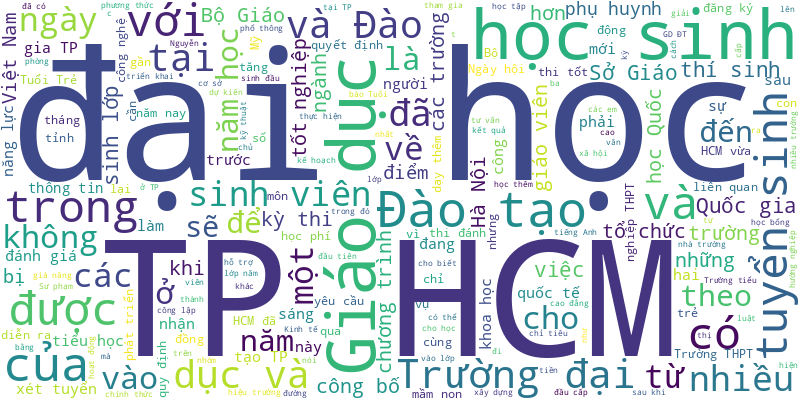
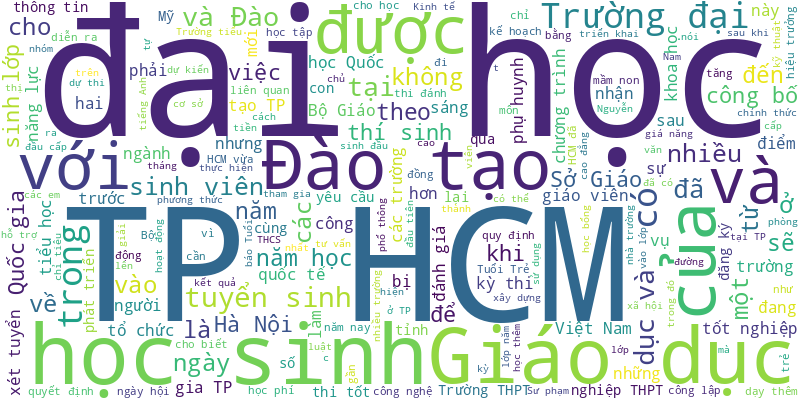
🍀 = 60%

diff --git a/README.md b/README.md
@@ -1,6 +1,24 @@
 # Tuoi Tre RSS 
 
 ## Giáo dục 
+- Bộ Giáo dục và Đào tạo đã có hướng dẫn về quy đổi điểm xét tuyển đại học nhưng nhiều trường đại học than khó thực hiện.
+- Ngày 29-5, Đại học Quốc gia Hà Nội công bố phổ điểm thi đánh giá năng lực năm 2025 sau 6 đợt thi, với gần 90.000 thí sinh dự thi.
+- Hiệu trưởng mới Trường tiểu học Vĩnh Nguyên 1, TP Nha Trang thông báo sẽ 'xáo lớp' với học sinh ăn hay không ăn bán trú vào năm sau. Phụ huynh thắc mắc đó có phải 'tạo áp lực' để học sinh ăn bán trú không?
+- Tóm tắt lý thuyết, tạo đề thi thử, phân tích bài làm... AI giúp tiết kiệm thời gian, tập trung kiến thức, biến áp lực thi cử thành cơ hội bứt phá.
+- Sáng 29-5, Viện Nghiên cứu kinh tế - xã hội, Trường đại học Sài Gòn (RISE) và Văn phòng đại diện Konrad - Adenauer - Stiftung tại Việt Nam (KAS) ký thỏa thuận hợp tác.
+- Không chỉ sinh viên quốc tế, một số sinh viên trong nước cũng đang cân nhắc chuyển khỏi Harvard vì không muốn học ở môi trường thiếu sinh viên quốc tế.
+- Ngày 29-5, Sở Giáo dục và Đào tạo TP.HCM tổ chức tập huấn công tác coi thi tuyển sinh lớp 10 năm học 2025-2026.
+- Khi du học Mỹ đang là tâm điểm với những quy định 'siết' visa, cùng nhìn lại số lượng du học sinh Việt Nam tại Mỹ trong thời gian qua.
+- Chiều 29-5, Phòng Giáo dục và Đào tạo TP Thủ Đức đã công bố điểm thi và điểm chuẩn lớp 6 vào 3 trường THCS: Trần Quốc Toản 1, Hoa Lư, Bình Thọ.
+- Theo Hiệp hội Các trường đại học, cao đẳng Việt Nam, việc điều chỉnh hệ thống giáo dục quốc dân để đáp ứng sự phát triển kinh tế - xã hội của đất nước ta trong kỷ nguyên mới.
+- Trường đại học Kinh tế - Tài chính TP.HCM (UEF) phát hiện văn bản giả mạo về chương trình trao đổi với Đại học Old Dominion (Mỹ) đang lan truyền trong cộng đồng sinh viên.
+- Hơn 1 triệu học sinh đăng ký thi tốt nghiệp THPT năm nay. Rất nhiều bạn vẫn đang đối mặt với câu hỏi: ‘Liệu mình đang đứng ở vị trí nào trong cuộc đua, có đủ sức thi vào ngành và trường yêu thích?’.
+- Trường đại học Ngoại ngữ - Tin học TP.HCM (HUFLIT) sẽ đến với khán giả chương trình Khám phá trường học của báo Tuổi Trẻ lúc 19h tối nay.
+- Nhiều chuyên gia giáo dục góp ý cần làm rõ giá trị của bằng 'trung học nghề', như liệu có tương đương với bằng tốt nghiệp THPT không, có được liên thông đại học không?
+- Được Nhà nước hỗ trợ nhưng học sinh bán trú chỉ ăn hết hơn một nửa số gạo, thầy hiệu trưởng ở Lai Châu quyết định chia đều, mỗi em được 60kg gạo mang về nghỉ hè.
+- Trước khi được bổ nhiệm chức vụ giám đốc Đại học Kinh tế quốc dân, PGS.TS Bùi Huy Nhượng giữ chức vụ phó giám đốc đại học.
+- Trong bối cảnh giáo dục đại học đang thay đổi nhanh chóng, câu hỏi liệu có nên tiếp tục duy trì mô hình đại học quốc gia đang được nhắc lại với nhiều ý kiến trái chiều.
+- Summer Camp 2025 - chương trình quốc tế mùa hè dành cho học sinh Asian School hứa hẹn mang đến một mùa hè sôi động với trải nghiệm học tập theo dự án sáng tạo, hoạt động ngoại khóa đa dạng và hành trình khám phá đầy cảm hứng.
 - Chính quyền ông Trump vừa thông báo sẽ tích cực thu hồi thị thực (visa) của sinh viên Trung Quốc, một trong những nguồn thu lớn nhất của các trường đại học Mỹ.
 - B.G. (32 tuổi, TP.HCM) chuẩn bị đi học chương trình MBA tại Arizona State University, đang cân nhắc việc chuyển hướng sang Hà Lan nếu không xin được visa du học Mỹ.
 - 11 viện, trường đại học, trường cao đẳng được giao nhiệm vụ đào tạo nguồn nhân lực phục vụ phát triển điện hạt nhân đến năm 2035 tại Việt Nam.
@@ -985,27 +1003,59 @@ Trường đại học Văn Lang được QS xếp hạng top 51-100 thế giớ
 - Tại Trường đại học Công nghệ TP.HCM (HUTECH), sinh viên thế hệ mới dường như chưa lúc nào ngừng bứt phá, thử sức.
 - Năm nay, cả bốn trường quân đội, gồm Học viện Kỹ thuật quân sự, Trường Sĩ quan Lục quân 2, Trường Sĩ quan Công binh và Trường Sĩ quan Thông tin đều giảm chỉ tiêu hệ quân sự so với năm ngoái.
 - UBND TP.HCM vừa có quyết định tổ chức lại phòng giáo dục và đào tạo thuộc UBND các quận trên địa bàn thành phố.
-- Hiệu trưởng trường THPT tại huyện Ea H'leo (tỉnh Đắk Lắk) có giải trình về việc để diễn ra việc cúng giải hạn ngay trong trường.
-- Theo PGS.TS.BS Đỗ Văn Dũng - giảng viên y tế công cộng, Đại học Y Dược TP.HCM, ba nhóm chất tốt cho trí não và cần tăng cường cho học sinh chuẩn bị thi cử gồm sắt, iốt, DHA.
-- Ngày 3-3, nhiệt độ tăng cao đã khiến các trường học ở gần một nửa thủ đô Philippines phải đóng cửa, báo hiệu một mùa nắng nóng khắc nghiệt sắp bắt đầu.
-- Trước đó, liên quan đến sai phạm kỳ thi tuyển sinh vào lớp 10, giám đốc Sở Giáo dục và Đào tạo Thái Bình bị cách chức, đến nay đã 6 tháng.
-- Sáng 3-3, Sở Giáo dục và Đào tạo TP.HCM đã trao quyết định bổ nhiệm hàng loạt cán bộ chủ chốt. Bà Lâm Hồng Lãm Thúy, trưởng Phòng giáo dục tiểu học, được bổ nhiệm làm trưởng Phòng giáo dục phổ thông.
-- Trên mạng xã hội xuất hiện bài viết nêu ban đại diện cha mẹ học sinh một trường tiểu học ở Khánh Hòa kêu gọi đóng góp tùy tâm để đổ bê tông trước cổng trường học, nhưng "chốt" mỗi học sinh ít nhất 100.000 đồng.
-- Chỉ trong vòng 6 tháng, Trường đại học Thủ Dầu Một có hai lần thay đổi chủ tịch hội đồng trường.
-- Theo quyết định quy hoạch mạng lưới cơ sở giáo dục đại học, nhiều trường đại học sẽ bị sáp nhập vào trường khác.
-- Bà Nguyễn Thu Thủy - vụ trưởng Vụ Giáo dục đại học (Bộ GD-ĐT) - khẳng định như vậy về quy chế tuyển sinh đại học sửa đổi sẽ được ban hành trong vài ngày tới.
-- Trường THCS-THPT Trần Đại Nghĩa, TP.HCM dự kiến tăng 80 chỉ tiêu trong mùa tuyển sinh lớp 10 năm 2025.
-- Danh hiệu 'Giáo sư danh dự' Đại học Thanh Hoa dành tặng những cá nhân đặc biệt xuất sắc, có nhiều đóng góp trong giáo dục, đào tạo, khoa học, có uy tín và có đóng góp cho tình hữu nghị, sự phát triển kinh tế - xã hội nói chung.
-- Học tập suốt đời để dám nghĩ, dám nói, dám làm, dám chịu trách nhiệm, dám hy sinh vì lợi ích chung, để trở thành người có ích cho xã hội.
-- Chính sách miễn học phí cho học sinh cả nước cần được mở rộng ra các trường tư và không còn lạm thu quỹ trường quỹ lớp.
-- Khẳng định trên của đại diện Bộ GD-ĐT được đưa ra tại Ngày hội tư vấn tuyển sinh - hướng nghiệp ở TP.HCM do báo Tuổi Trẻ tổ chức.
-- Nhiều học sinh đã chia sẻ băn khoăn, lo lắng liên quan ngành học và tuyển sinh năm nay, tại Ngày hội tư vấn tuyển sinh - hướng nghiệp đang diễn ra ở Hải Phòng.
-- Thí sinh thắc mắc cận thị hơn 3 độ có xét tuyển vào Học viện Kỹ thuật quân sự được không?
-- Thông tin tuyển sinh sai có thể khiến bạn trẻ lệch hướng. Vì vậy đừng ngần ngại đặt câu hỏi, đừng ngại chia sẻ những băn khoăn, ước mơ của mình với các thầy cô và chuyên gia.
-- Nhiều học sinh, phụ huynh chia sẻ đã chốt được ngành học sau khi đến tìm hiểu thông tin tại Ngày hội tư vấn tuyển sinh - hướng nghiệp của báo Tuổi Trẻ.
 ![Edu](Edu.png)
 ## Thời Sự 
-- Phán quyết của Tòa án Thương mại quốc tế Mỹ đình chỉ hầu hết các khoản thuế quan mà ông Trump áp đặt lên các nước.
+- Bộ Văn hóa, Thể thao và Du lịch chấp thuận cho UBND TP Huế lập hội đồng khoa học gồm các chuyên gia của Cục Di sản văn hóa, nhà nghiên cứu… để tìm cách sửa ngai vàng triều Nguyễn bị bẻ gãy.
+- Tại dự thảo nghị định mới về tinh giản biên chế, Bộ Nội vụ đề xuất cán bộ, công chức, viên chức không hoàn thành nhiệm vụ 1 năm thuộc diện bị tinh giản.
+- Theo thống kê mới nhất, có hơn 1.300 cán bộ ở An Giang xin nghỉ hưu hưởng chế độ 178 và nghỉ việc theo nguyện vọng cá nhân. Còn tại Kiên Giang cũng có hàng trăm cán bộ đã xin nghỉ theo chế độ 178.
+- Bí thư Đảng ủy, chủ tịch HĐND xã, phường được chọn theo thứ tự ưu tiên: ủy viên Ban Thường vụ Tỉnh ủy; ủy viên Ban Chấp hành Đảng bộ tỉnh; bí thư cấp ủy cấp huyện…
+- Tin tức đáng chú ý: Cục Quản lý dược, Bộ Y tế vừa có quyết định thu hồi 15 số tiếp nhận phiếu công bố sản phẩm mỹ phẩm của một công ty tại Hà Nội; Bảo hiểm y tế sẽ chi trả cho người bệnh tự mua thuốc, vật tư trong một số trường hợp...
+- Hôm nay 30-5, thời tiết cả nước tiếp tục duy trì đợt mưa, Bắc Bộ mưa to sáng sớm sau đó giảm dần, còn Nam Bộ mưa tập trung về chiều.
+- Dự báo đêm nay 29-5, nhiều vùng miền trên cả nước tiếp tục có mưa vừa đến mưa to, cảnh báo nguy cơ lũ quét, sạt lở đất tại 30 tỉnh thành.
+- Công an Đồng Nai phát hiện các công nhân đang sang chiết, đóng gói sản phẩm phân bón hữu cơ dạng viên nén sang bao bì khác có hình con dơi màu đỏ...
+- Thủ tướng giao nhiệm vụ cho ngành ngân hàng phải nâng cấp, phát triển hạ tầng thanh toán đảm bảo hoạt động liên tục, thông suốt, an toàn, đáp ứng tốt nhu cầu thanh toán đa dạng.
+- Thường trực Ban Bí thư Trần Cẩm Tú yêu cầu nghiêm túc nhìn nhận một số hạn chế, rút kinh nghiệm để làm tốt hơn cho sự kiện sắp tới, gần nhất là các hoạt động Lễ kỷ niệm 80 năm Quốc khánh 2-9, 'phải làm tốt hơn, hoàn chỉnh hơn, hoàn hảo hơn'.
+- Thấy lực lượng quản lý thị trường, nhiều tiểu thương tại Trung tâm thương mại Saigon Square (quận 1, TP.HCM) vội vàng đóng sạp, gây khó khăn cho công tác kiểm tra.
+- Tập đoàn Y Dược EBC từng quảng bá là nhà máy sản xuất gia công mỹ phẩm thuần chay, quy trình sản xuất đóng gói nghiêm ngặt, được kiểm tra chặt chẽ.
+- Tuyến đường nối cao tốc TP.HCM - Long Thành - Dầu Giây đoạn từ nút giao thông An Phú đến đường vành đai 2 sẽ được mở rộng lên 8 làn.
+- Công đoàn doanh nghiệp, đơn vị sự nghiệp công lập không hưởng 100% lương từ ngân sách nhà nước sẽ chưa thực hiện sắp xếp, giải thể.
+- Ủy ban Kiểm tra Trung ương kỷ luật cảnh cáo Thứ trưởng Bộ Giáo dục và Đào tạo Nguyễn Thị Kim Chi và đề nghị kỷ luật nguyên lãnh đạo Tập đoàn Công nghiệp cao su Việt Nam, tỉnh Đồng Nai, Hậu Giang.
+- Sau khi đứa con trong bụng mẹ được thông tim thành công, vợ chồng sản phụ Singapore đã viết thư cảm ơn bác sĩ: 'Trải nghiệm này sẽ mãi ở trong tim chúng tôi, không có lời nào diễn tả hết lòng biết ơn đến đội ngũ y tế tuyệt vời của Việt Nam'.
+- Theo lãnh đạo Bộ Nông nghiệp và Môi trường, năm nay lượng mưa không quá nhiều nhưng đáng quan ngại là mưa cực đoan cục bộ. Đây là điểm quan trọng cần lưu ý trong công tác chỉ đạo, điều hành để giảm thiểu tối đa thiệt hại.
+- Liên quan thông tin quảng cáo trên sản phẩm sữa lúa mạch Nestle' Milo, Sở Y tế Đồng Nai nhận định có dấu hiệu lừa dối người tiêu dùng, nên kiến nghị chuyển hồ sơ vụ việc cho cơ quan cảnh sát điều tra.
+- Mưa lớn trong nhiều ngày qua khiến một đoạn đường Hàm Minh - Thuận Quý, huyện Hàm Thuận Nam, tỉnh Bình Thuận sạt lở, tạo hàm ếch.
+- Sau khi kết thúc hoạt động của một số đơn vị công đoàn, vấn đề tài chính và tài sản phải đảm bảo đúng quy định, không gây thất thoát, lãng phí và đảm bảo chăm lo, hỗ trợ đoàn viên kịp thời, đúng mục đích.
+- Phòng an ninh mạng và phòng chống tội phạm sử dụng công nghệ cao (Công an Đà Nẵng) làm rõ nghi phạm lừa đảo bằng thủ đoạn mua bán tiền ảo với số tiền hàng chục tỉ đồng của nhiều nạn nhân trên cả nước.
+- Thành ủy Gia Nghĩa (Đắk Nông) có văn bản đề nghị chỉ tiếp nhận địa giới hành chính khi thành lập phường Bắc Gia Nghĩa mới, nhưng không tiếp nhận cán bộ, công chức, viên chức và người lao động của xã Đắk Ha (huyện Đắk G'Long) sau sáp nhập.
+- Bên cạnh chỉ đạo thực hiện cao điểm chống buôn lậu, gian lận thương mại, hàng giả, hàng xâm phạm sở hữu trí tuệ, tổ công tác sẽ kiểm tra, kiến nghị xử lý các tổ chức, cá nhân thiếu trách nhiệm, tiêu cực, buông lỏng quản lý, tiếp tay cho vi phạm.
+- Tổng Bí thư Tô Lâm nhấn mạnh nghị quyết 57 không phải khẩu hiệu chính trị, mà là chương trình hành động thực tế để Việt Nam cất cánh.
+- Nhiều dự án được đánh giá cấp bách, có vốn đầu tư hàng trăm đến ngàn tỉ đồng ở tỉnh Đắk Lắk đang chậm tiến độ nghiêm trọng, khiến lãnh đạo tỉnh bức xúc.
+- Ho khan suốt ba tháng không rõ nguyên nhân, người phụ nữ 69 tuổi được bác sĩ phát hiện một mảnh xương sắc nhọn mắc trong phế quản.
+- Chiếc xe ô tô đang di chuyển trên đường ở Sa Pa (Lào Cai) thì bất ngờ lao sang làn đối diện rồi tông vào ba xe máy đang đi theo hướng ngược lại. Hậu quả khiến một cháu bé tử vong.
+- Sau trận mưa lớn, hàng tấn cá nuôi trong lồng bè trên sông Đồng Nai chết hàng loạt.
+- Một kỹ sư được phát hiện sử dụng bằng giả trong hồ sơ tham gia thi công dự án mở rộng đường Tố Hữu (quận Thuận Hóa, TP Huế), với tổng mức đầu tư hơn 1.143 tỉ đồng.
+- Sáng 29-5, tàu INS Darshak thuộc Hải quân Ấn Độ do đại tá Praveen Thomas chỉ huy đã cập cảng Sài Gòn, khởi đầu chuyến thăm TP.HCM.
+- Thủ tướng Phạm Minh Chính nêu 6 đề xuất để tăng cường quan hệ song phương, với đề nghị mở rộng hợp tác trên nhiều lĩnh vực với Tổng thống Hungary Sulyok Tamas.
+- Tại nghị quyết thí điểm vừa được thông qua của Quốc hội đã đưa ra nhiều cơ chế, chính sách đặc thù phát triển nhà ở xã hội.
+- Bí thư Tỉnh ủy và chủ tịch UBND tỉnh Quảng Ngãi sẽ trực tiếp đứng lớp truyền đạt cho bí thư, chủ tịch của 55 xã, 1 đặc khu. Mục đích để chính quyền cấp xã hoạt động hiệu quả ngay sau khi bỏ cấp huyện.
+- HĐND tỉnh An Giang đã thông qua nghị quyết thu hồi nhiều dự án và đất rừng phòng hộ. Đáng chú ý là nghị quyết hỗ trợ đóng bảo hiểm y tế trên 33.000 người, với số tiền trên 18 tỉ đồng/năm cho người dân tộc thiểu số, vùng sâu, vùng khó khăn.
+- Đó là những kết quả mà ngành điện TP.HCM đạt được khi thực hiện phong trào thi đua yêu nước và công tác khen thưởng giai đoạn 2020 - 2025.
+- Bộ Nội vụ đã đề xuất dự thảo nghị định mới, trong đó thiết kế chế độ, chính sách cho người hoạt động không chuyên trách ở xã nghỉ việc do sáp nhập.
+- Khoảng 2 tuần gần đây, nhiều đoạn kênh Nhiêu Lộc - Thị Nghè xuất hiện dày đặc lục bình, mỗi ngày cơ quan chức năng vớt 9 tấn.
+- Một vụ cháy dữ dội đã xảy ra tại cửa hàng xăng dầu Duy Nhứt, xã Đất Mũi, huyện Ngọc Hiển, tỉnh Cà Mau. Khu vực cháy đông dân cư nhưng rất may không cháy lan, không thiệt hại về người.
+- Bộ trưởng Bộ Công an đã ký quyết định về việc nghỉ công tác hưởng chế độ hưu trí đối với thiếu tướng Nguyễn Thị Xuân và đại tá Nguyễn Văn Bôn - cùng là phó giám đốc Công an tỉnh Đắk Lắk.
+- Trưa 29-5, Trạm cảnh sát giao thông quốc lộ 13 đã có báo cáo nhanh về vụ tai nạn giữa xe khách và xe container khiến một số hành khách bị thương.
+- Lực lượng chức năng địa phương vừa vây bắt thành công con trăn to và nặng khoảng 45kg lẩn trốn trong khu vực bụi rậm, gần khu dân cư ở TP Rạch Giá (Kiên Giang).
+- Trên mạng đang lan truyền các video cắt ghép về sầu riêng "nhúng hóa chất", "nhiễm vàng O", cơ quan chức năng khẳng định đó là vụ việc xảy ra năm 2017 ở Đắk Nông, đã được xử lý rốt ráo.
+- Liên quan đến việc tái cơ cấu Tập đoàn Điện lực Việt Nam (EVN) và các thông tin đang lan truyền, Tuổi Trẻ Online đã có cuộc trao đổi với lãnh đạo EVN về việc tái cơ cấu tập đoàn này.
+- Bộ Tài chính vừa có tờ trình và dự thảo nghị quyết tháo gỡ khó khăn, vướng mắc dự án ngăn triều 10.000 tỉ gửi Chính phủ xem xét.
+- Chiếc ô tô tông xe máy đi cùng chiều, tiếp tục ủi ô tô đỗ bên đường, rồi lao lên vỉa hè đâm thẳng vào cây xanh bên đường mới khiến chiếc xe dừng lại.
+- Bộ Xây dựng đã khởi công dự án mở rộng cao tốc La Sơn - Hòa Liên nối Huế và Đà Nẵng từ 2 lên 4 làn xe.
+- Vay đặc biệt không thế chấp, lãi suất 0%/năm chỉ áp dụng trong hai trường hợp đặc biệt: rút tiền hàng loạt và tổ chức tín dụng bị kiểm soát đặc biệt.
+- Trong cuộc chiến chống hàng giả, hàng nhái, vai trò của những người bán hàng 'vô tình' tiếp tay sẽ bị xử lý như thế nào?
+- Gần đây nhiều đại lý, người bán vé số dạo bị mất tiền oan do đổi nhầm vé số giả trúng thưởng. Cách nào nhận biết vé số giả?
+- Xe khách giường nằm chở theo hơn 10 hành khách đã xảy ra va chạm với xe container trên quốc lộ 13 khiến 5 người bị thương.
+- Kiên Giang vừa thành lập Tổ công tác về cao điểm đấu tranh, ngăn chặn, đẩy lùi tình trạng buôn lậu và đôn đốc các sở ngành, lực lượng chức năng kiểm tra, xử lý tổ chức, cá nhân thiếu tinh thần trách nhiệm, buông lỏng, tiếp tay cho buôn lậu.
 - Từ trung tâm đến cửa ngõ TP.HCM, hàng loạt tuyến đường và cầu xuống cấp sẽ được 'hồi sức', nhằm đảm bảo an toàn giao thông, nâng chất lượng hạ tầng.
 - Lực lượng cảnh sát bất ngờ kiểm tra một cửa hàng đồ si ở Long Xuyên, An Giang phát hiện nhiều hàng hóa có dấu hiệu nhập lậu và hàng giả mạo thương hiệu nổi tiếng. Lực lượng cảnh sát đã tạm giữ hàng loạt sản phẩm để tiếp tục điều tra.
 - Sáng nay (29-5), Quốc hội thảo luận ở hội trường nghị quyết về thí điểm viện kiểm sát nhân dân khởi kiện vụ án dân sự để bảo vệ quyền dân sự của các chủ thể là nhóm dễ bị tổn thương hoặc bảo vệ lợi ích công.
@@ -1955,59 +2005,14 @@ Trường đại học Văn Lang được QS xếp hạng top 51-100 thế giớ
 - Nhiều đại biểu kiến nghị cần làm rõ các khái niệm về dữ liệu cá nhân cần được bảo vệ và có biện pháp quản lý với những trường hợp giao dịch, đặc biệt trên môi trường điện tử.
 - Người dân địa phương nói bãi rác ở xã Đông Nam, TP Thanh Hóa quá tải, gây ô nhiễm môi trường, ảnh hưởng đến cuộc sống nên chặn xe vào.
 - Sau khi Tuổi Trẻ Online phản ánh việc "Bé trai 10 tuổi hôn mê sau khi bị cây rơi trúng đầu", chủ tịch UBND TP.HCM đã có những chỉ đạo.
-- Bộ Nội vụ khẳng định chưa có chủ trương cho phép tuyển chọn và đưa lao động sang làm việc tại Israel trong tất cả các lĩnh vực ngành nghề.
-- Chiều 12-5, Thường trực UBND tỉnh Kiên Giang và An Giang đã có buổi trao đổi về sắp xếp tổ chức bộ máy các cơ quan hành chính, đơn vị sự nghiệp trên địa bàn sau sáp nhập đơn vị cấp tỉnh.
-- Bí thư tỉnh Cao Bằng Quản Minh Cường đã dẫn chứng nội dung này để nói về tình trạng lộ lọt, lợi dụng dữ liệu cá nhân đang là vấn đề rất bức xúc, nóng hổi.
-- Sau 5 lần thay đổi quyết định vi phạm hành chính, đến nay chủ biệt thự “đẹp nhất Cà Mau” vẫn chưa đóng tiền chuyển đổi mục đích sử dụng đất.
-- Lực lượng chức năng đã làm việc với người đàn ông có hành vi biến thái trước mặt các cô gái ở bãi đá ven biển, gần khu vực danh thắng Hòn Chồng - Hòn Đỏ (TP Nha Trang, tỉnh Khánh Hòa).
-- Ngày 12-5, UBND tỉnh Bắc Ninh tổ chức chương trình gặp mặt doanh nghiệp tư nhân trong lĩnh vực khoa học công nghệ.
-- Do mâu thuẫn trong sinh hoạt vợ chồng, người vợ đã dùng dao gây thương tích cho chồng mình rồi đến công an đầu thú và bị tạm giữ hình sự.
-- Thường trực Ban Bí thư Trần Cẩm Tú đã ký ban hành quy định 285 của Ban Bí thư về phòng ngừa, phát hiện, ngăn chặn vi phạm của tổ chức đảng và đảng viên.
-- Nhiều cây xanh ở TP Tân An, Long An ngã đổ sau trận mưa lớn đầu giờ chiều nay.
-- Tỉnh Nghệ An phấn đấu tới năm 2030, tối thiểu 20% xe buýt trên địa bàn sử dụng điện, năng lượng xanh.
-- Tính đến ngày 7-5-2025, có 15 địa phương không còn nhà tạm, nhà dột nát.
-- Một nam thanh niên ở Vĩnh Long vừa bị Công an Đà Nẵng bắt giữ, để điều tra hành vi lừa đảo chiếm đoạt tài sản.
-- Hôm nay 12-5, Bộ trưởng Hợp tác phát triển quốc tế và ngoại thương Thụy Điển, ông Benjamin Dousa, chính thức bắt đầu chuyến thăm Việt Nam.
-- Ông Nguyễn Thanh Hiệp - hiệu trưởng Trường đại học Y khoa Phạm Ngọc Thạch, bị kỷ luật với hình thức cảnh cáo, đồng thời đến nhận nhiệm vụ và công tác tại Sở Y tế TP.HCM.
-- Trung tâm phục vụ hành chính công Hà Nội sẽ thiết lập hệ thống quầy tiếp nhận hồ sơ trực tuyến, dừng tiếp nhận hồ sơ trực tiếp đối với nhóm thủ tục hành chính lĩnh vực đăng ký biện pháp bảo đảm bằng quyền sử dụng đất, tài sản gắn liền với đất.
-- Bộ Công an đã hỗ trợ 30 tỉ đồng để tỉnh Đắk Nông thực hiện chương trình xóa 500 nhà dột nát, nhà tạm tại địa phương này.
-- Camera an ninh ghi lại hình ảnh xe khách 16 chỗ vào ngã tư đường tránh Đông thị xã An Khê (Gia Lai) tông thẳng vào hông xe tải chạy từ hướng khác làm nhiều người bị thương.
-- Sống ở thành phố mà lại phải ngủ lại công ty, ngủ nhờ nhà bạn hay đồng nghiệp, chỉ vì trời mưa.
-- Sáng 12-5, tại Nghệ An, Thượng tướng Trịnh Văn Quyết, chủ nhiệm Tổng cục Chính trị Quân đội nhân dân Việt Nam, đã chủ trì hội nghị bàn giao chức trách, nhiệm vụ bí thư Đảng ủy, chính ủy Quân khu 4.
-- Đầu chiều 12-5, các khối mây dông đang phát triển mạnh từ nhiều phía về TP.HCM, dự báo chiều nay nhiều nơi mưa to.
-- Theo Ban quản lý dự án đầu tư xây dựng công trình giao thông tỉnh Đồng Tháp, quan điểm của lãnh đạo tỉnh đã quán triệt tinh thần thực hiện cao tốc Cao Lãnh - An Hữu theo đúng ý kiến chỉ đạo của Thủ tướng, phấn đấu hoàn thành trong năm 2025.
-- Chính quyền phường Hòa Hiệp Nam, quận Liên Chiểu, Đà Nẵng đang tìm chủ nhân đàn bò thả rông húc cháu bé đang chơi trước nhà.
-- Ông Phạm Thái Hà, cựu phó chủ nhiệm Văn phòng Quốc hội, cựu trợ lý của cựu Chủ tịch Quốc hội, bị cơ quan điều tra đề nghị truy tố với cáo buộc lợi dụng chức vụ, quyền hạn gây ảnh hưởng đối với người khác để trục lợi.
-- Thủ tướng Thái Lan Paetongtarn Shinawatra sẽ dẫn đầu đoàn đại biểu cấp cao Chính phủ Hoàng gia Thái Lan thăm chính thức Việt Nam tuần này.
-- Sáng 12-5, Thủ tướng Phạm Minh Chính dự lễ khởi công dự án cao tốc Ninh Bình - Hải Phòng đoạn qua tỉnh Nam Định, Thái Bình theo phương thức PPP và dự án Khu công nghiệp Hưng Phú.
-- Trao đổi với Tuổi Trẻ, các đại biểu Quốc hội, doanh nghiệp, luật sư đều nêu rõ nghị quyết 68 của Bộ Chính trị về phát triển kinh tế tư nhân không chỉ là một thông điệp chính trị mạnh mẽ...
-- Nhiều đại biểu kiến nghị với những trường học, bệnh viện cần tính toán loại bỏ khoản thu thuế thu nhập doanh nghiệp để không tạo thêm gánh nặng cho người học, người bệnh.
-- Từ ngày 1-6 ngành bảo hiểm xã hội sẽ không cấp thẻ bảo hiểm y tế bằng giấy cho người tham gia mà yêu cầu sử dụng thẻ bảo hiểm y tế trên VssID, VNeID.
-- Trung tâm phục vụ hành chính công Hà Nội đã triển khai việc phát số thứ tự bằng hình thức online để giải quyết triệt để tình trạng người dân xếp hàng từ rạng sáng để chờ xử lý thủ tục hành chính.
-- Hai xe máy tông nhau lúc rạng sáng tại TP Quy Nhơn (Bình Định) khiến 2 người chết tại chỗ, 1 người bị thương được đưa đi cấp cứu tại Bệnh viện Đa khoa tỉnh Bình Định.
-- Người mẹ trẻ 26 tuổi ôm con 8 tháng tuổi rồi gieo mình xuống sông Hương ở Huế tự tử. Thi thể 2 mẹ con được tìm thấy không lâu sau đó.
-- Dự luật tăng thẩm quyền của tòa án nhân dân khu vực theo hướng cấp tòa này có thẩm quyền giải quyết theo thủ tục sơ thẩm tất cả các vụ việc dân sự, vụ án hành chính; giải quyết phá sản; tổ chức thực hiện hoạt động hòa giải, đối thoại.
-- Cán bộ, công chức cấp xã dôi dư do sáp nhập cấp huyện, cấp xã giai đoạn 2023-2025 được khuyến khích nghỉ trước so với thời điểm kết thúc lộ trình sắp xếp.
-- Khoảng cách thời gian ngắn nhất từ hạn cuối nộp hồ sơ ứng cử đến ngày khai mạc kỳ họp thứ nhất của Quốc hội, HĐND khóa mới dự kiến rút ngắn khoảng gần 40 ngày.
-- Phó chủ tịch UBND TP.HCM Bùi Xuân Cường vừa trao quyết định bổ nhiệm ông Nguyễn Toàn Thắng làm giám đốc Sở Nông nghiệp và Môi trường và 6 phó giám đốc sở.
-- Phó chủ tịch Quốc hội Nguyễn Thị Thanh trình Quốc hội về rút ngắn 3 tháng nhiệm kỳ Quốc hội khóa XV và HĐND các cấp và ngày bầu cử mới.
-- Trận mưa ngày 10-5 khiến nhiều tuyến đường ở TP.HCM và các tỉnh Đông Nam Bộ bị ngập nặng, nhà dân hư hỏng đồ đạc, đèn giao thông gãy... được nhận định là rất hiếm gặp.
-- Căn nhà trên đường Tân Chánh Hiệp 18, quận 12 (TP.HCM) bốc cháy dữ dội trong đêm khiến một người chết, cơ quan chức năng đang điều tra nguyên nhân.
-- Tin tức đáng chú ý: Đề xuất các điểm mới sửa Luật Giáo dục, có quy định miễn học phí, bỏ bằng tốt nghiệp THCS; TP.HCM tri ân những người "âm thầm" phục vụ sức khỏe người dân...
-- Hôm nay 12-5, thời tiết Trung Bộ và Nam Bộ có mưa to, mưa dông tập trung vào chiều tối, trong mưa có dông sét nguy hiểm.
-- Chiều 11-5, Tổng Bí thư Tô Lâm và Phu nhân cùng đoàn đại biểu cấp cao rời Nga, hướng tới Belarus cho chuyến thăm cấp nhà nước.
-- Ban quản lý Khu kinh tế Dung Quất và các khu công nghiệp Quảng Ngãi đề xuất đầu tư tuyến nhánh đường sắt nối Dung Quất với đường sắt Bắc - Nam.
-- Phó thủ tướng Trần Hồng Hà chỉ đạo Bộ Tài chính nghiên cứu, đề xuất nguồn vốn để thực hiện đường cao tốc Đà Lạt - Nha Trang trong giai đoạn 2026 - 2030.
-- Chiếc xe tải bất ngờ tông vào nhà dân ở thôn Tân Thành (xã Sơn Hội, huyện Sơn Hòa, tỉnh Phú Yên) khiến bé gái 1 tuổi qua đời, chị của bé bị thương.
-- Việc thực hiện các nội dung kiến nghị theo kết luận thanh tra liên quan đến sai phạm đất đai hoàn thành chậm nhất trong tháng 6-2025.
-- Chiều 11-5, sau nhiều giờ nỗ lực tìm kiếm, lực lượng cứu hộ, cứu nạn Công an tỉnh Bình Dương đã tìm thấy ông Võ Văn P. (36 tuổi, quê Long An), tài xế lái máy múc bị nước cuốn trôi sau cơn mưa lớn.
-- Với địa hình đồi núi, khoảng cách giữa TP Kon Tum và TP Quảng Ngãi hiện nay lên đến 200km. Ban Thường vụ 2 tỉnh cơ bản thống nhất thành lập cơ sở 2 của tỉnh Quảng Ngãi mới ở TP Kon Tum để thuận tiện điều hành.
-- Sau các vụ sụt đường ở Tây Ninh, máy bay trượt khỏi đường băng Tân Sơn Nhất…, bộ trưởng Bộ Xây dựng ban hành công điện đề nghị tăng cường công tác bảo đảm an toàn giao thông trên lĩnh vực.
-- Ngày 11-5, TP Hải Phòng tổ chức các sự kiện, chương trình chào mừng kỷ niệm 70 năm Ngày giải phóng Hải Phòng - Thành phố Anh hùng.
-- Công an tỉnh Quảng Ngãi bắt giữ 4 thanh niên chém người ở Đà Lạt khi đang lẩn trốn trên một chuyến xe khách.
 ![New](News.png)
 ## Nhịp sống số 
-- Veo 3, công nghệ AI tạo video mới của Google, đang gây sốt trong giới công nghệ. Tuy nhiên, như mọi công nghệ đột phá khác, nó mang đến cả cơ hội lẫn rủi ro.
+- Tóm tắt lý thuyết, tạo đề thi thử, phân tích bài làm... AI giúp tiết kiệm thời gian, tập trung kiến thức, biến áp lực thi cử thành cơ hội bứt phá.
+- Hãy tưởng tượng bạn bước vào một vũ trụ nơi bạn có thể là siêu anh hùng, phi hành gia, hay một phiên bản hoàn hảo của chính mình. Đó chính là Metaverse, không gian ảo 3 chiều đang bùng nổ mạnh mẽ từ lớp học, văn phòng đến các tựa game nhập vai.
+- Đăng nhập bằng Google tiện lợi, nhưng cũng ẩn chứa nhiều rủi ro bảo mật. Bài viết sẽ giúp bạn hiểu rõ điều mình đang đánh đổi và cách kiểm soát.
+- AI đang thay đổi nhanh chóng thị trường lao động. Nhiều ngành nghề có tính lặp lại, quy trình rõ ràng đang đứng trước nguy cơ bị thay thế.
+- Kiếm tiền online đang là xu hướng. Nhưng làm sao để công nghệ phục vụ bạn, thay vì biến bạn thành nạn nhân?
+- Veo 3, công nghệ AI tạo video mới của Google, đang gây sốt trong giới công nghệ. Tuy nhiên như mọi công nghệ đột phá khác, nó mang đến cả cơ hội lẫn rủi ro.
 - Video đám cưới Barron Trump và Công chúa Leonor đã làm rung chuyển mạng xã hội. Công nghệ AI tạo ra hình ảnh và giọng nói chân thực khiến nhiều người không thể phân biệt thật - giả.
 - Bạn có thể 'nói' điều mình chưa từng nói, 'làm' điều mình chưa từng làm chỉ với một bức ảnh. Deepfake đang khiến ranh giới thật - giả trở nên mờ nhòe đến nguy hiểm.
 - Định danh điện tử đang trở thành công cụ quan trọng trong thời đại số hóa, giúp đơn giản hóa các giao dịch trực tuyến và tăng cường bảo mật. Tuy nhiên, người dùng cần hiểu rõ bản chất và lưu ý khi sử dụng để đảm bảo an toàn thông tin.
@@ -3001,9 +3006,4 @@ Trường đại học Văn Lang được QS xếp hạng top 51-100 thế giớ
 - TTO - Bộ An ninh nội địa Mỹ (DHS) thông báo đã vừa xác định được một hoạt động tấn công bằng mã độc của các tin tặc do Chính phủ Triều Tiên bảo trợ.
 - TTO - Các nhà phát triển hệ thống phần mềm trí tuệ nhân tạo với thuật toán machine learning đã mô phỏng toàn bộ giải bóng đá vô địch thế giới 100.000 lần để hệ thống đưa ra các dự đoán kết quả.
 - Sáng ngày 15-6, tại Hà Nội, Bộ Thông tin và truyền thông đã tổ chức Lễ công bố mã bưu chính quốc gia mới. Cả nước có 21.405 mã bưu chính.
-- TTO - Facebook vừa thông báo ông Elliot Schrage, giám đốc phụ trách truyền thông và chính sách cộng đồng của công ty này, sẽ từ chức sau một thập kỷ gắn bó.
-- TTO - Có rất nhiều loại ổ khóa thông minh hiện nay, trong đó các dòng ổ khóa dựa vào dấu vân tay để xác thực rất được tin dùng. Tuy nhiên, được tin dùng không đồng nghĩa với việc luôn an toàn.
-- TTO - Nhà chức trách Trung Quốc đã chấp thuận phê chuẩn thương vụ mua nhà sản xuất chip Hà Lan NXP của hãng Qualcomm (Mỹ) với giá thâu tóm 44 tỉ USD.
-- TTO - Sẽ hỗ trợ phát triển ứng dụng công nghệ Blockchain thông qua các chương trình KH&amp;CN cấp quốc gia và ưu tiên hỗ trợ doanh nghiệp khởi nghiệp thực hiện dự án có ứng dụng công nghệ blockchain
-- TTO - Ứng dụng HerVenture trên thiết bị di động ở Việt Nam cung cấp một phương tiện học tập và tư vấn trực tuyến giá rẻ và linh hoạt cho các nữ chủ doanh nghiệp vừa được chính thức ra mắt sáng ngày 14-6.
 ![life](Life.png)
